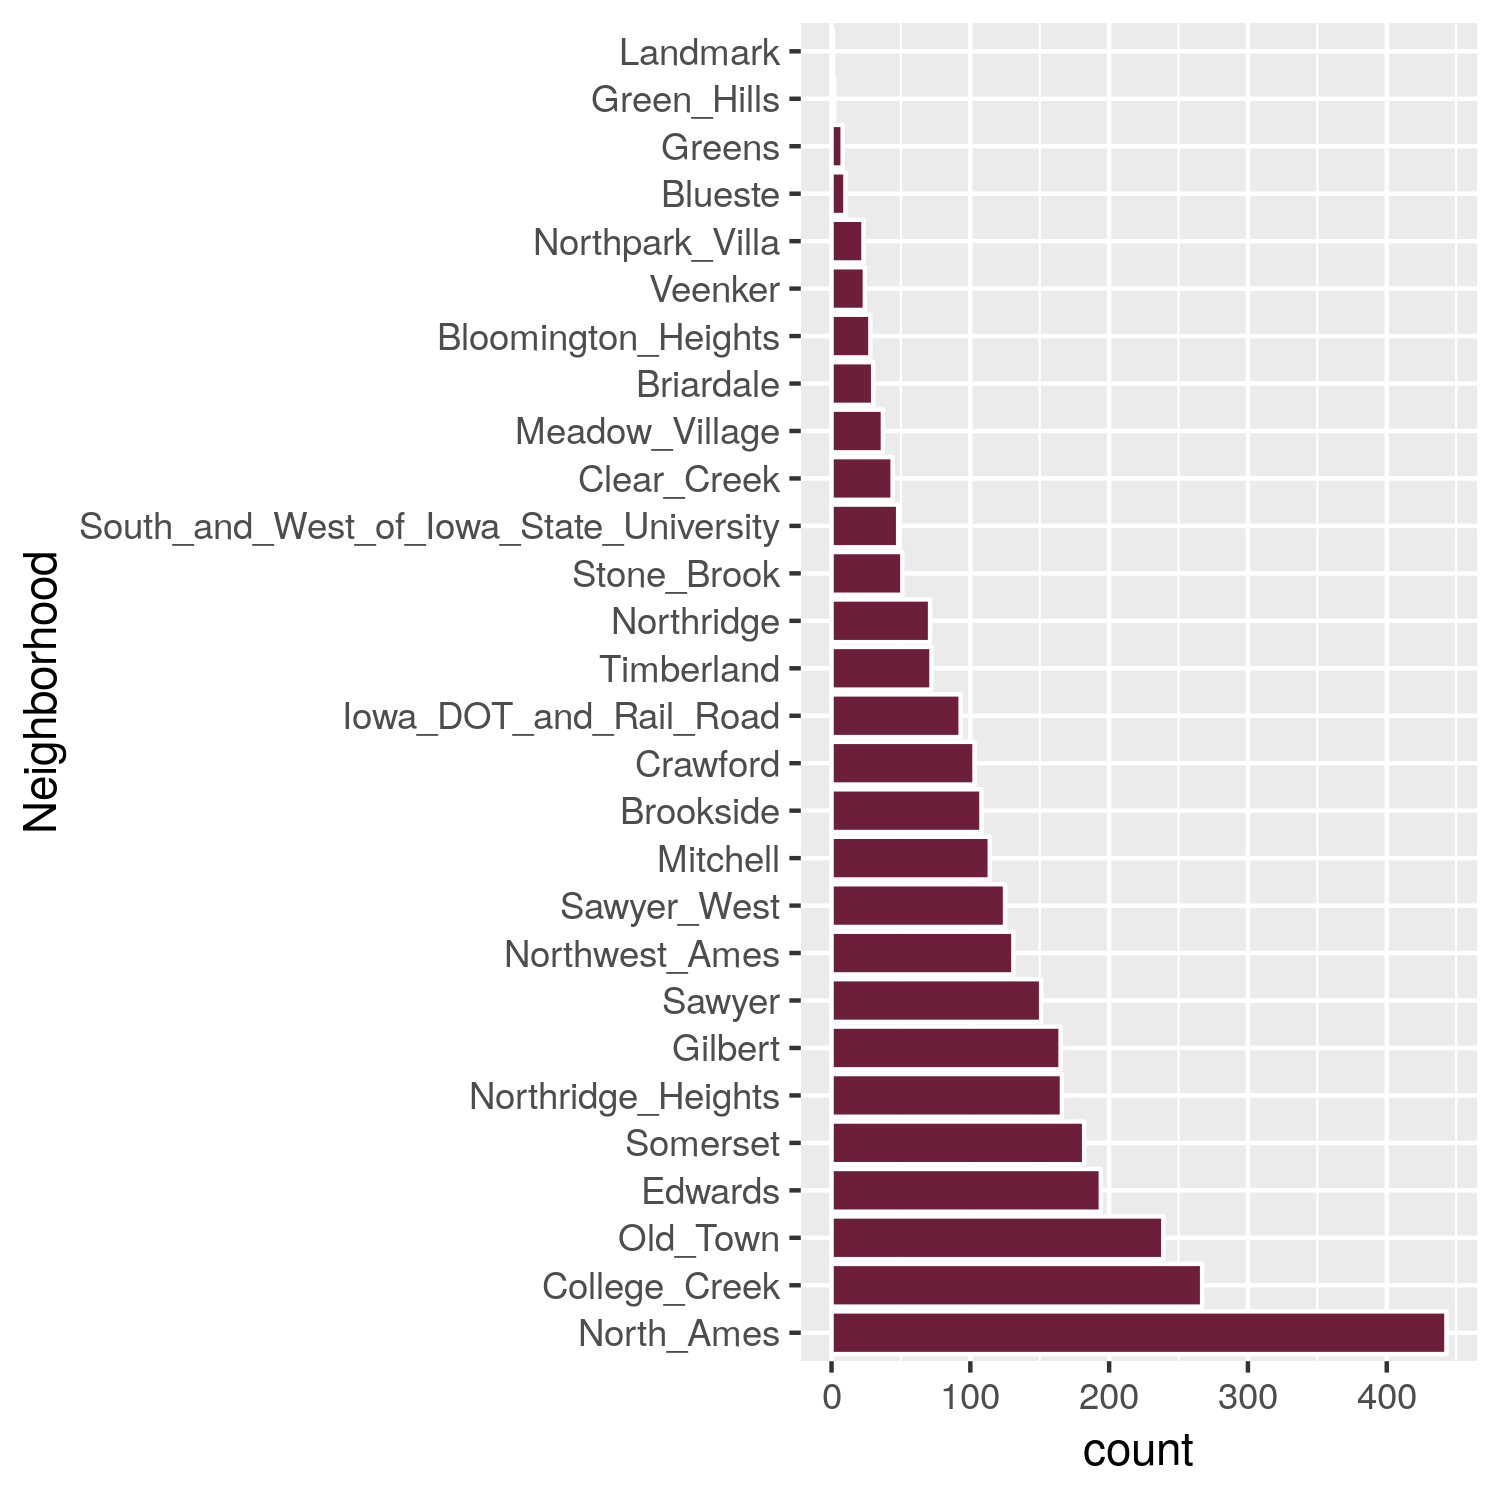
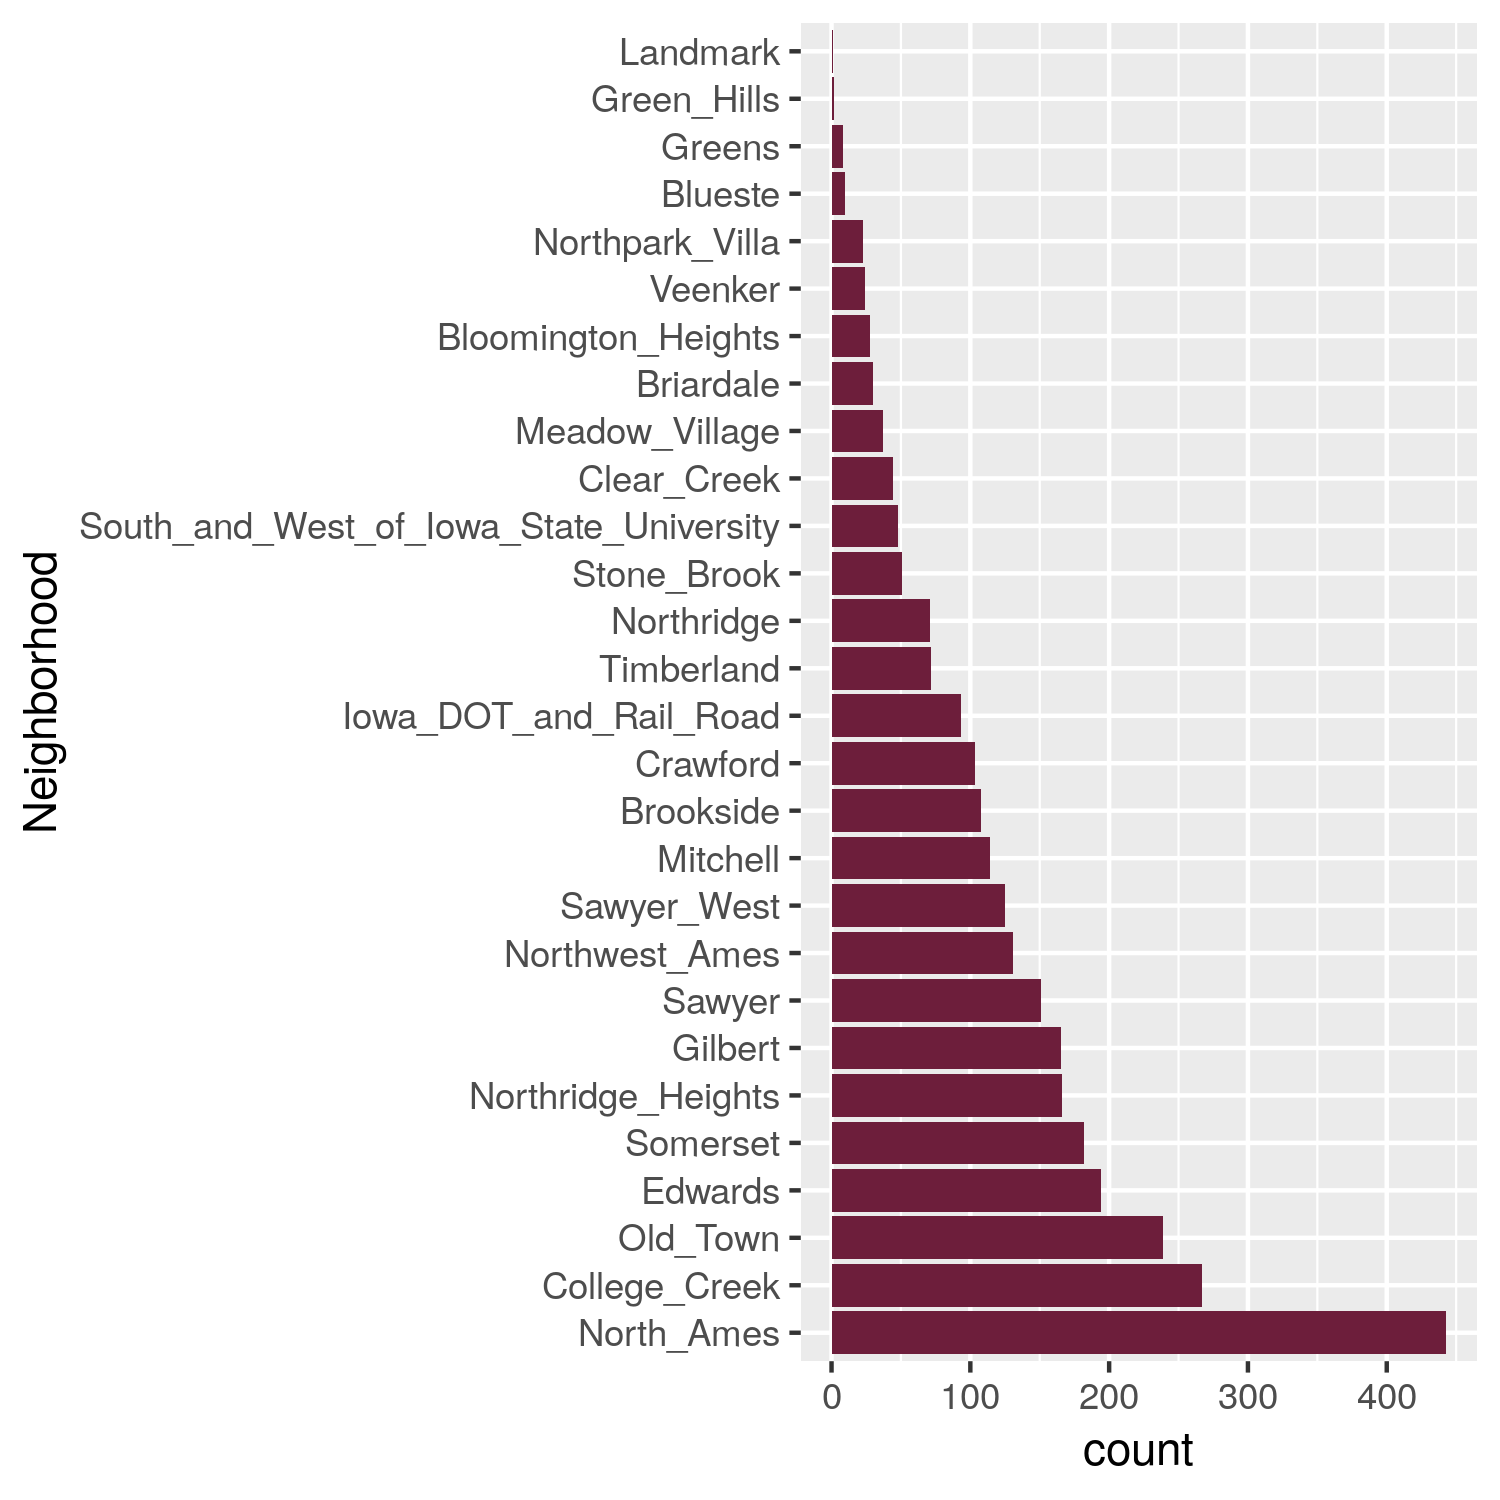
Change Rmd

Changed region(s): [[0.552, 0.5213, 0.7973, 0.8893], [0.552, 0.368, 0.644, 0.4907], [0.552, 0.092, 0.5827, 0.3373]]

diff --git a/public/Rmd/user2018_full.html b/public/Rmd/user2018_full.html
@@ -27,8 +27,6 @@
 
 
 
-
-
 class: center, middle
 
 # David Neuzerling
@@ -920,10 +918,7 @@ leaflet(ames) %&gt;%
 ```r
 ames %&gt;% 
     ggplot(aes(x = Neighborhood)) +
-    geom_bar(
-        fill = "#6d1e3b", 
-        colour = "white"
-    ) + 
+    geom_bar(fill = "#6d1e3b") + 
     coord_flip()
 ```
 ]

diff --git a/static/Rmd/user2018_full.html b/static/Rmd/user2018_full.html
@@ -27,8 +27,6 @@
 
 
 
-
-
 class: center, middle
 
 # David Neuzerling
@@ -920,10 +918,7 @@ leaflet(ames) %&gt;%
 ```r
 ames %&gt;% 
     ggplot(aes(x = Neighborhood)) +
-    geom_bar(
-        fill = "#6d1e3b", 
-        colour = "white"
-    ) + 
+    geom_bar(fill = "#6d1e3b") + 
     coord_flip()
 ```
 ]
